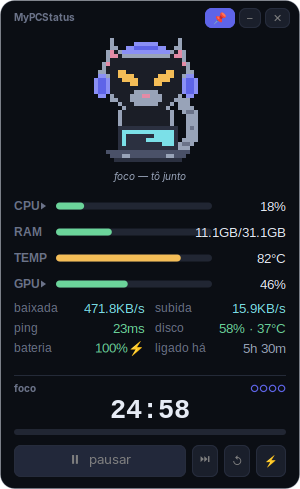
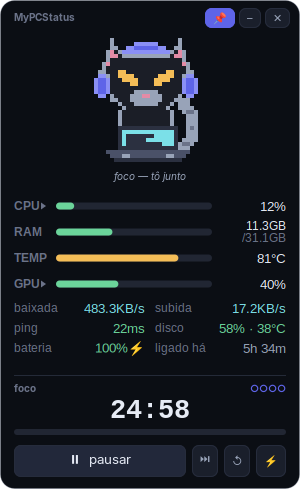
Quebra o valor da barra em duas linhas quando não cabe
"11.2GB/31.1GB" mede 91 px numa coluna de 68 e invadia a barra da RAM. Agora o
valor é medido antes de desenhar: se couber, segue numa linha só; se não,
parte no separador, com o usado em destaque e o total abaixo em tom suave.

A medição evita quebrar o que já cabia -- "86°C", "41%", "350MHz" seguem
inteiros numa linha.

diff --git a/mypcstatus/widgets.py b/mypcstatus/widgets.py
@@ -177,6 +177,26 @@ class StatsPanel(Gtk.DrawingArea):
         PangoCairo.show_layout(cr, layout)
         return w
 
+    def _measure(self, cr, txt, size=10, bold=False):
+        layout = PangoCairo.create_layout(cr)
+        layout.set_font_description(
+            Pango.FontDescription("Sans %s%d" % ("Bold " if bold else "", size)))
+        layout.set_text(txt, -1)
+        return layout.get_pixel_size()[0]
+
+    def _value(self, cr, x, y, w, value):
+        """Valor alinhado a' direita; quebra em duas linhas se nao couber.
+
+        "11.2GB/31.1GB" mede 91 px numa coluna de 68 e invadia a barra. Quando
+        o texto cabe -- "84°C", "17%" -- segue numa linha so'.
+        """
+        if "/" not in value or self._measure(cr, value, 10) <= w:
+            self._text(cr, x, y, value, "bright", 10, align="right", width=w)
+            return
+        used, _, total = value.partition("/")
+        self._text(cr, x, y - 6, used, "bright", 9, align="right", width=w)
+        self._text(cr, x, y + 6, "/" + total, "dim", 9, align="right", width=w)
+
     def _bar(self, cr, x, y, w, pct, color, h=BAR_H):
         rgb(cr, "track")
         rounded(cr, x, y - h / 2, w, h, h / 2)
@@ -192,8 +212,7 @@ class StatsPanel(Gtk.DrawingArea):
         bx = PAD + LABEL_W
         bw = w - PAD * 2 - LABEL_W - VALUE_W
         self._bar(cr, bx, y, bw, pct, color)
-        self._text(cr, bx + bw + 6, y, value, "bright", 10,
-                   align="right", width=VALUE_W - 6)
+        self._value(cr, bx + bw + 6, y, VALUE_W - 6, value)
 
     def _chevron(self, cr, x, y, is_open):
         """Triangulinho desenhado a mao: nao depende de glifo da fonte."""
